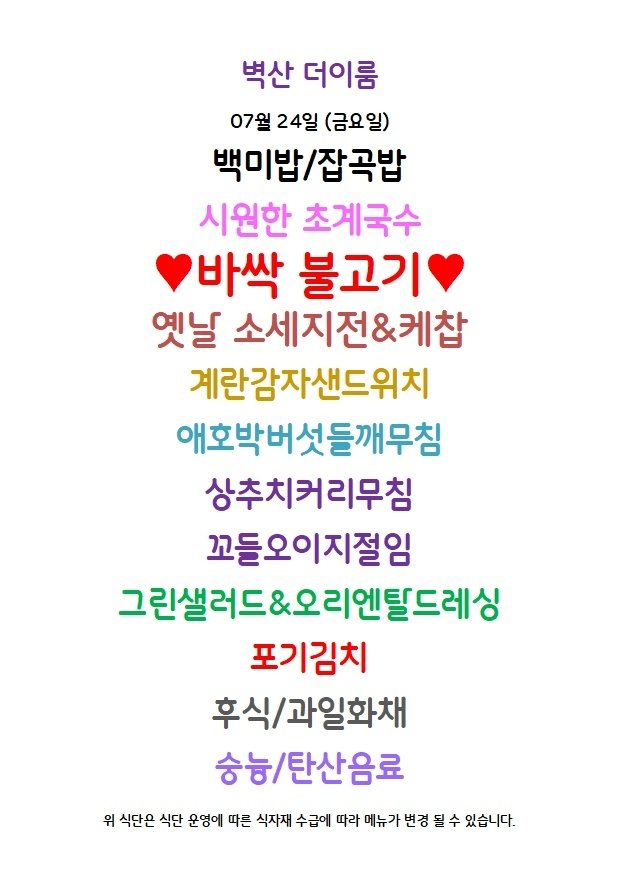
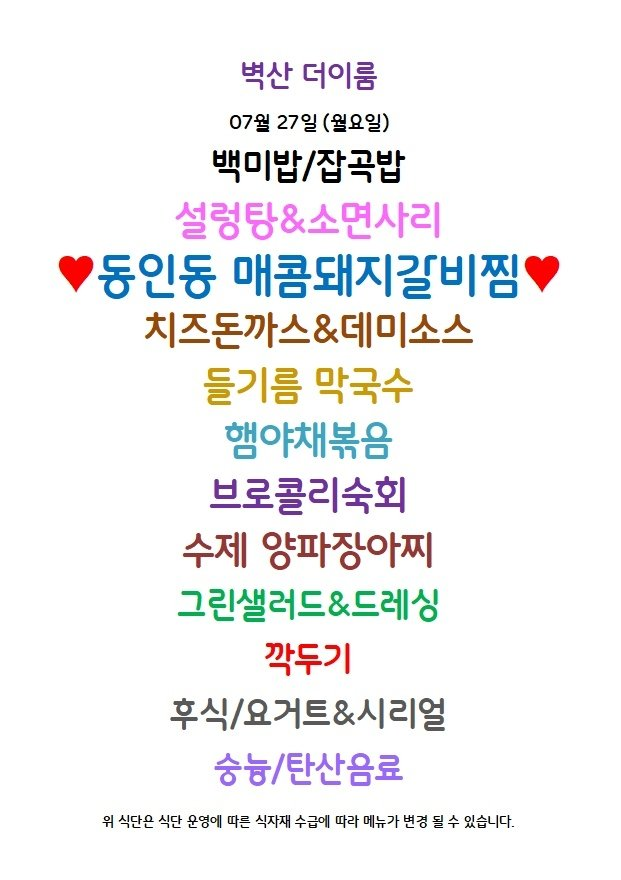
Update menu board assets

Changed region(s): [[0.0919, 0.0614, 0.9194, 0.8294], [0.1532, 0.9215, 0.8274, 0.9522], [0.3371, 0.8601, 0.6435, 0.8908]]

diff --git a/guro-menu/index.html b/guro-menu/index.html
@@ -32,7 +32,7 @@
   </header>
   <section class="meta">
     <div><small>기준 날짜</small><strong>2026년 7월 27일 월요일</strong></div>
-    <div><small>최종 갱신</small><strong>2026-07-27 09:18:15</strong></div>
+    <div><small>최종 갱신</small><strong>2026-07-27 09:33:33</strong></div>
     <div><small>등록 식당</small><strong>5개</strong></div>
   </section>
   <div class="notice">공개 카카오 채널의 메뉴 이미지를 자동 수집하고 OCR로 정리합니다. 텍스트에 오타가 있을 수 있으니 식단 이미지를 함께 확인해 주세요.</div>
@@ -89,8 +89,8 @@
           <a class="channel" href="https://pf.kakao.com/_xdLzxgG" target="_blank" rel="noopener">원본 채널</a>
         </div>
         <img class="menu-image" src="./images/byucksan-theirum.png" alt="벽산더이룸 식단 이미지" loading="lazy">
-        <p class="message">최신 공개 식단 이미지의 텍스트입니다. 날짜는 원본 이미지를 확인해 주세요.</p>
-        <ul><li>백미밥/잡곡밥</li><li>시원한 초계국수</li><li>사 &amp;</li><li>Yuet 불고 Ivy</li><li>옛닐 AN A</li><li>계란감자샌드위치</li><li>애호박버섯들깨무침</li><li>상추치커리무침</li><li>꼬들오이지절임</li><li>그린샐러드&amp;오리엔틸드레싱</li><li>포기김치</li><li>후식/과일화채</li><li>숭늉/탄산음료</li></ul>
+        
+        <ul><li>백미밥/잡곡밥</li><li>설렁탐&amp;소면사리</li><li>동인동 매콤돼지길비찜</li><li>치즈돈까스&amp;데미소스</li><li>들기름 막국수</li><li>햄야채볶음</li><li>브로콜리숙회</li><li>수제 양파장아찌</li><li>그린샐러드&amp;드레싱</li><li>후식/요거트&amp;시리얼</li><li>숭늉/탄산음료</li></ul>
       </article>
 
       <article class="restaurant-card">

diff --git a/menu-today/index.html b/menu-today/index.html
@@ -209,7 +209,7 @@
 
     <section class="meta-bar">
       <div class="meta-card"><div class="meta-label">기준 날짜</div><div class="meta-value">2026년 7월 27일 월요일</div></div>
-      <div class="meta-card"><div class="meta-label">최종 가져온 시간</div><div class="meta-value">2026-07-27 09:18:01</div></div>
+      <div class="meta-card"><div class="meta-label">최종 가져온 시간</div><div class="meta-value">2026-07-27 09:33:19</div></div>
       <div class="meta-card"><div class="meta-label">확인 완료</div><div class="meta-value">9개 식당</div></div>
       <div class="meta-card"><div class="meta-label">준비중</div><div class="meta-value">3개 채널</div></div>
     </section>
@@ -295,7 +295,7 @@
             <div class="sub">에이스테크노타워10차</div>
           </div>
         </div>
-        <div class="menu-inline-image"><img src="./images/thefoodsketch.png" alt="더푸드스케치 식단 이미지"></div><ul><li>잠치김치찌개</li><li>직와삼겹불고기</li><li>오코노미야끼선</li><li>푸팟동커리</li><li>= 비엔나소세지볶음</li><li>가든샐러드 &amp; 드레싱</li><li>일배기겉절이 / 음료</li><li>참치김치찌개</li><li>직화삼겹불</li></ul>
+        <div class="menu-inline-image"><img src="./images/thefoodsketch.png" alt="더푸드스케치 식단 이미지"></div><ul><li>잠치김치찌개</li><li>직와삼겹불고기</li><li>오코노미야끼선</li><li>푸팟동커리</li><li>= 비엔나소세지볶음</li><li>가든샐러드 / 드레싱</li><li>일배기겉절이 / 음료</li><li>참치김치찌개</li><li>직화삼겹불</li></ul>
       </article>
 
       <article class="restaurant-card">
